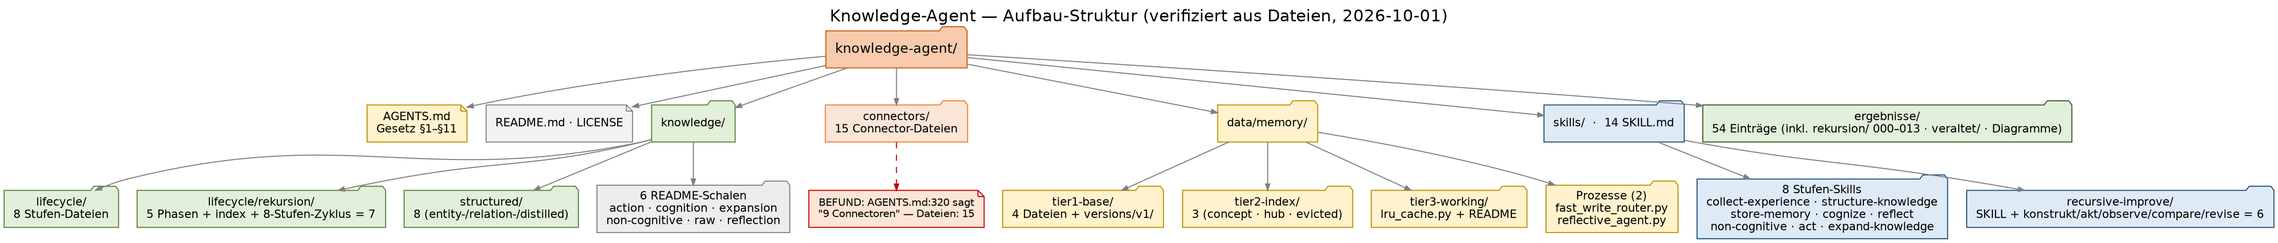
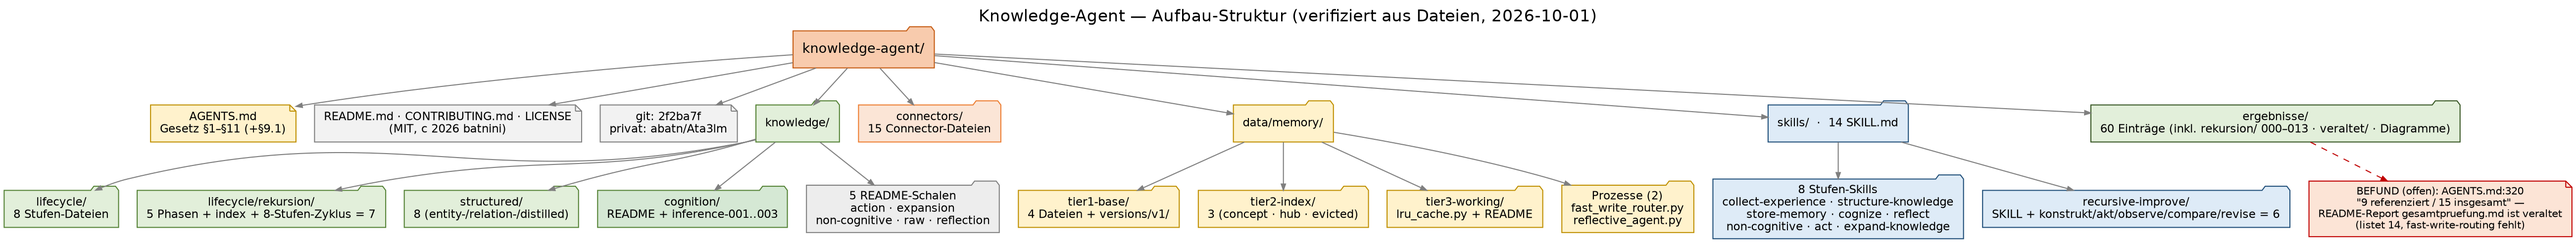
fix(docs): gesamtpruefung.md Connector-Tabellen korrigiert
- fast-write-routing.md ergänzt (fehlte), affective-signals-Duplikat entfernt
- Korrektur-Notiz (2026-10-01) ergänzt
Verifiziert: Tabellen == 15 Dateien in connectors/ (keine Differenz)

diff --git a/ergebnisse/gesamtpruefung.md b/ergebnisse/gesamtpruefung.md
@@ -3,6 +3,11 @@
 > Datum: 2026-09-30
 > Zweck: Vollständige abschließende Prüfung aller Komponenten
 > Lab-Prinzip: Keine Erfindungen – nur was tatsächlich in den Dateien steht.
+>
+> **Korrektur 2026-10-01:** Die Connector-Tabellen waren unvollständig
+> (`fast-write-routing.md` fehlte, `affective-signals.md` doppelt gelistet).
+> Beide Tabellen wurden auf die tatsächlichen 15 Dateien in `connectors/`
+> korrigiert.
 
 ---
 
@@ -51,7 +56,7 @@
 | 12 | connectors/observer-agent.md | 55 |
 | 13 | connectors/react.md | 59 |
 | 14 | connectors/reflexion-trace.md | 73 |
-| 15 | connectors/affective-signals.md | 73 |
+| 15 | connectors/fast-write-routing.md | 59 |
 
 #### 3 Kern-Dateien
 | Datei | Pfad | Zeilen |
@@ -130,6 +135,7 @@
 | 12 | observer-agent.md | 55 | Observer-Agent | 200 |
 | 13 | react.md | 59 | ReAct | 200, 200 |
 | 14 | reflexion-trace.md | 73 | Reflexion, TRACE | 200, 200, 200 |
+| 15 | fast-write-routing.md | 59 | Dual-Layer (arXiv:2608.22215) | 200 |
 
 **Ergebnis:** ✅ Alle 15 Connectoren existieren, sind belegt und alle Quellen-Links geben HTTP 200.
 
